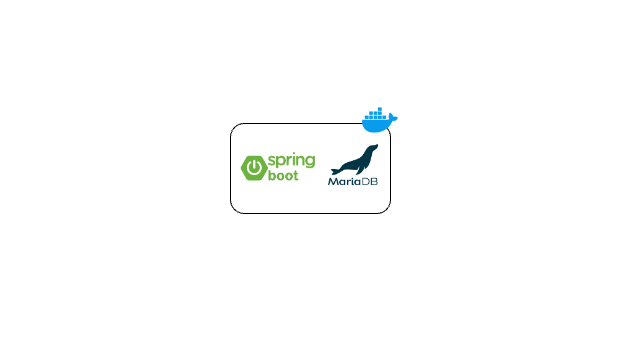
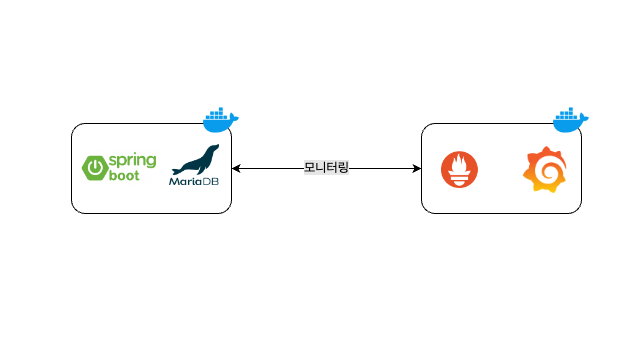
docs: V1.1 README 작성

diff --git a/README.md b/README.md
@@ -1,41 +1,9 @@
-# Spring-10k-Chat-Server V1.0
+# Spring-10k-Chat-Server V1.1
 
-## 📖 프로젝트 소개
+## 📗업데이트 내용
 
-- Spring Boot를 이용한 실시간 채팅 서버 구현 프로젝트입니다.
-- 최종 목표는 10,000명의 사용자가 동시에 채팅을 할 수 있는 서버를 구현하는 것입니다.
-
----
-
-## 🛠 기술 스택
-
-### Back-end
-
-- Language: Kotlin 1.9.25
-- Framework: Spring Boot 3.4.1
-- DB: MariaDB
-- ORM: JPA, Querydsl
-- WebSocket, STOMP
-
-### Front-end
-
-- Framework: React
-
----
-
-## 주요 구현 내용
-
-- 단체 채팅방 생성 및 입장
-- 단체 채팅 기능
-- 로그인/회원가입 기능 With JWT
-
----
-
-## 🎥 Preview
-
-![미리보기](./assets/preview.png)
-
----
+- Spring Actuator, Prometheus, Grafana를 이용한 모니터링 구축
+- K6를 이용한 부하 테스트 진행
 
 ## ⚙ 인프라
 
